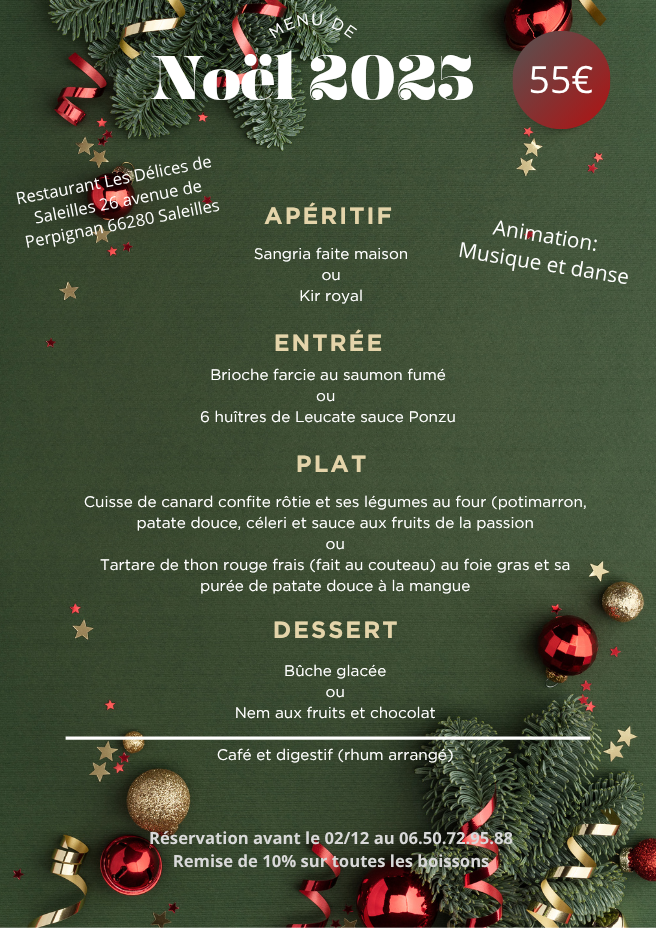
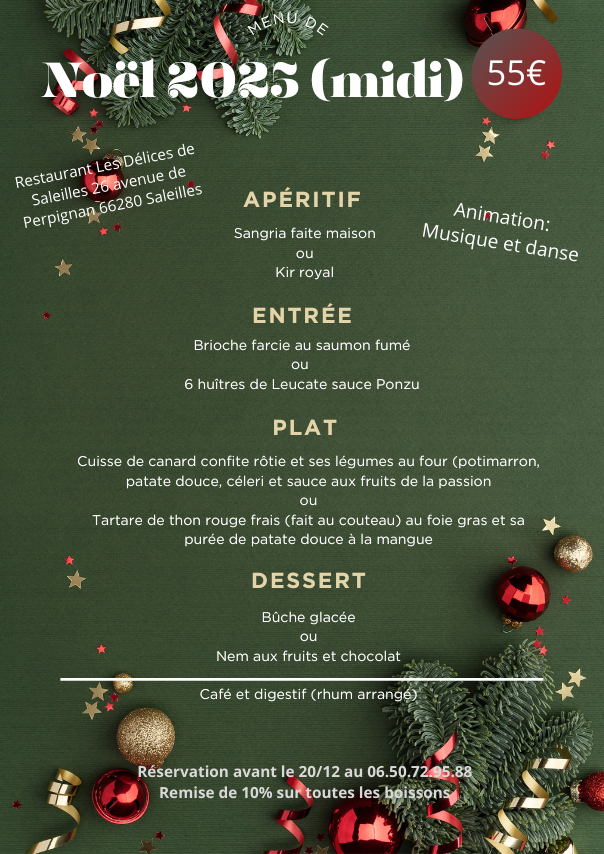
mise en ligne

diff --git a/components/Equipment/Equipment.js b/components/Equipment/Equipment.js
@@ -54,7 +54,11 @@ export default function Equipment() {
           </p>
            <SimpleBanner2 url="/noel70.png" />
            <p className={styles.p2}> 
-           Réservations avant le 02/12/2025
+           Réservations avant le 20/12/2025
+          </p>
+           <SimpleBanner2 url="/nouvel-an.png" />
+          <p className={styles.p2}> 
+           Réservations avant le 20/12/2025
           </p>
            <h2 className={styles.h1}> Nouveau </h2>
            <SimpleBanner url="/cantonnais.png" />

diff --git a/components/Banner/banner.module.css b/components/Banner/banner.module.css
@@ -5,7 +5,7 @@
     max-width: 600px;
     overflow: hidden;
     margin: auto;
-  }
+}
   
 .carouselInner {
     position: relative;
@@ -60,8 +60,7 @@
     cursor: pointer;
     opacity: 1;
     color: white;
-    background-color: rgb(35,40,71);
-    
+    background-color: rgb(35,40,71); 
 }
 
 .btn2:hover {
